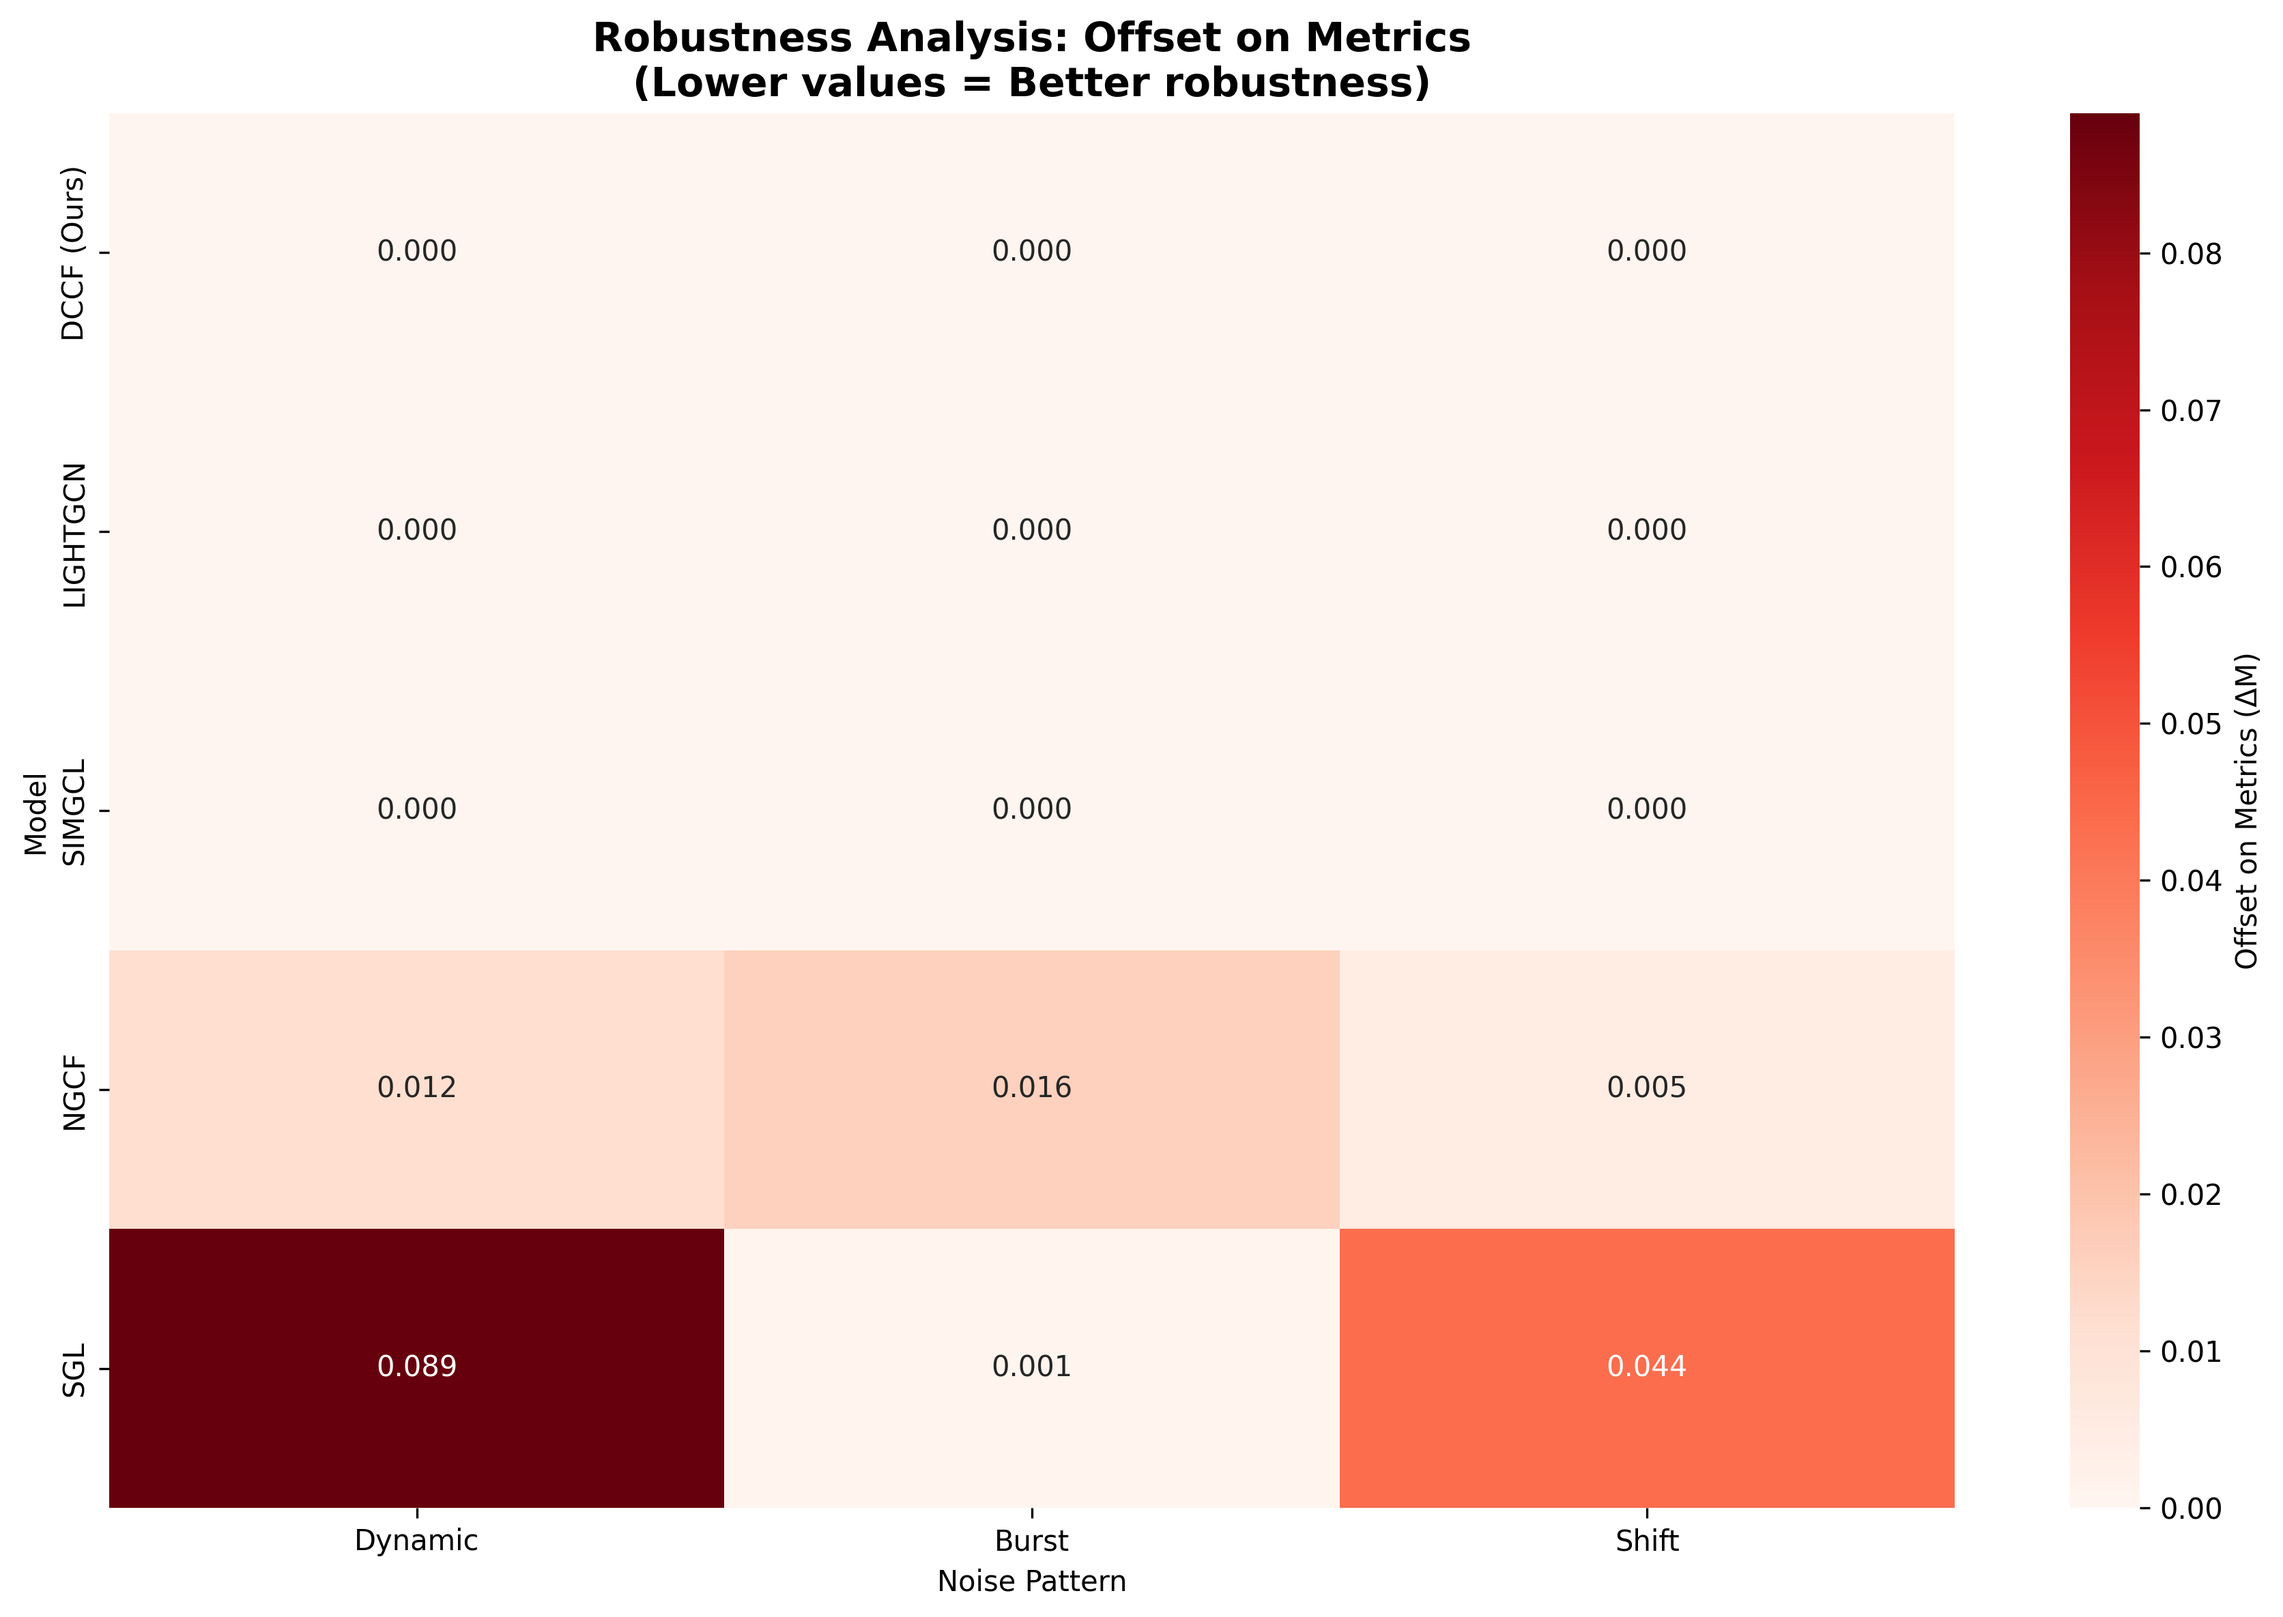
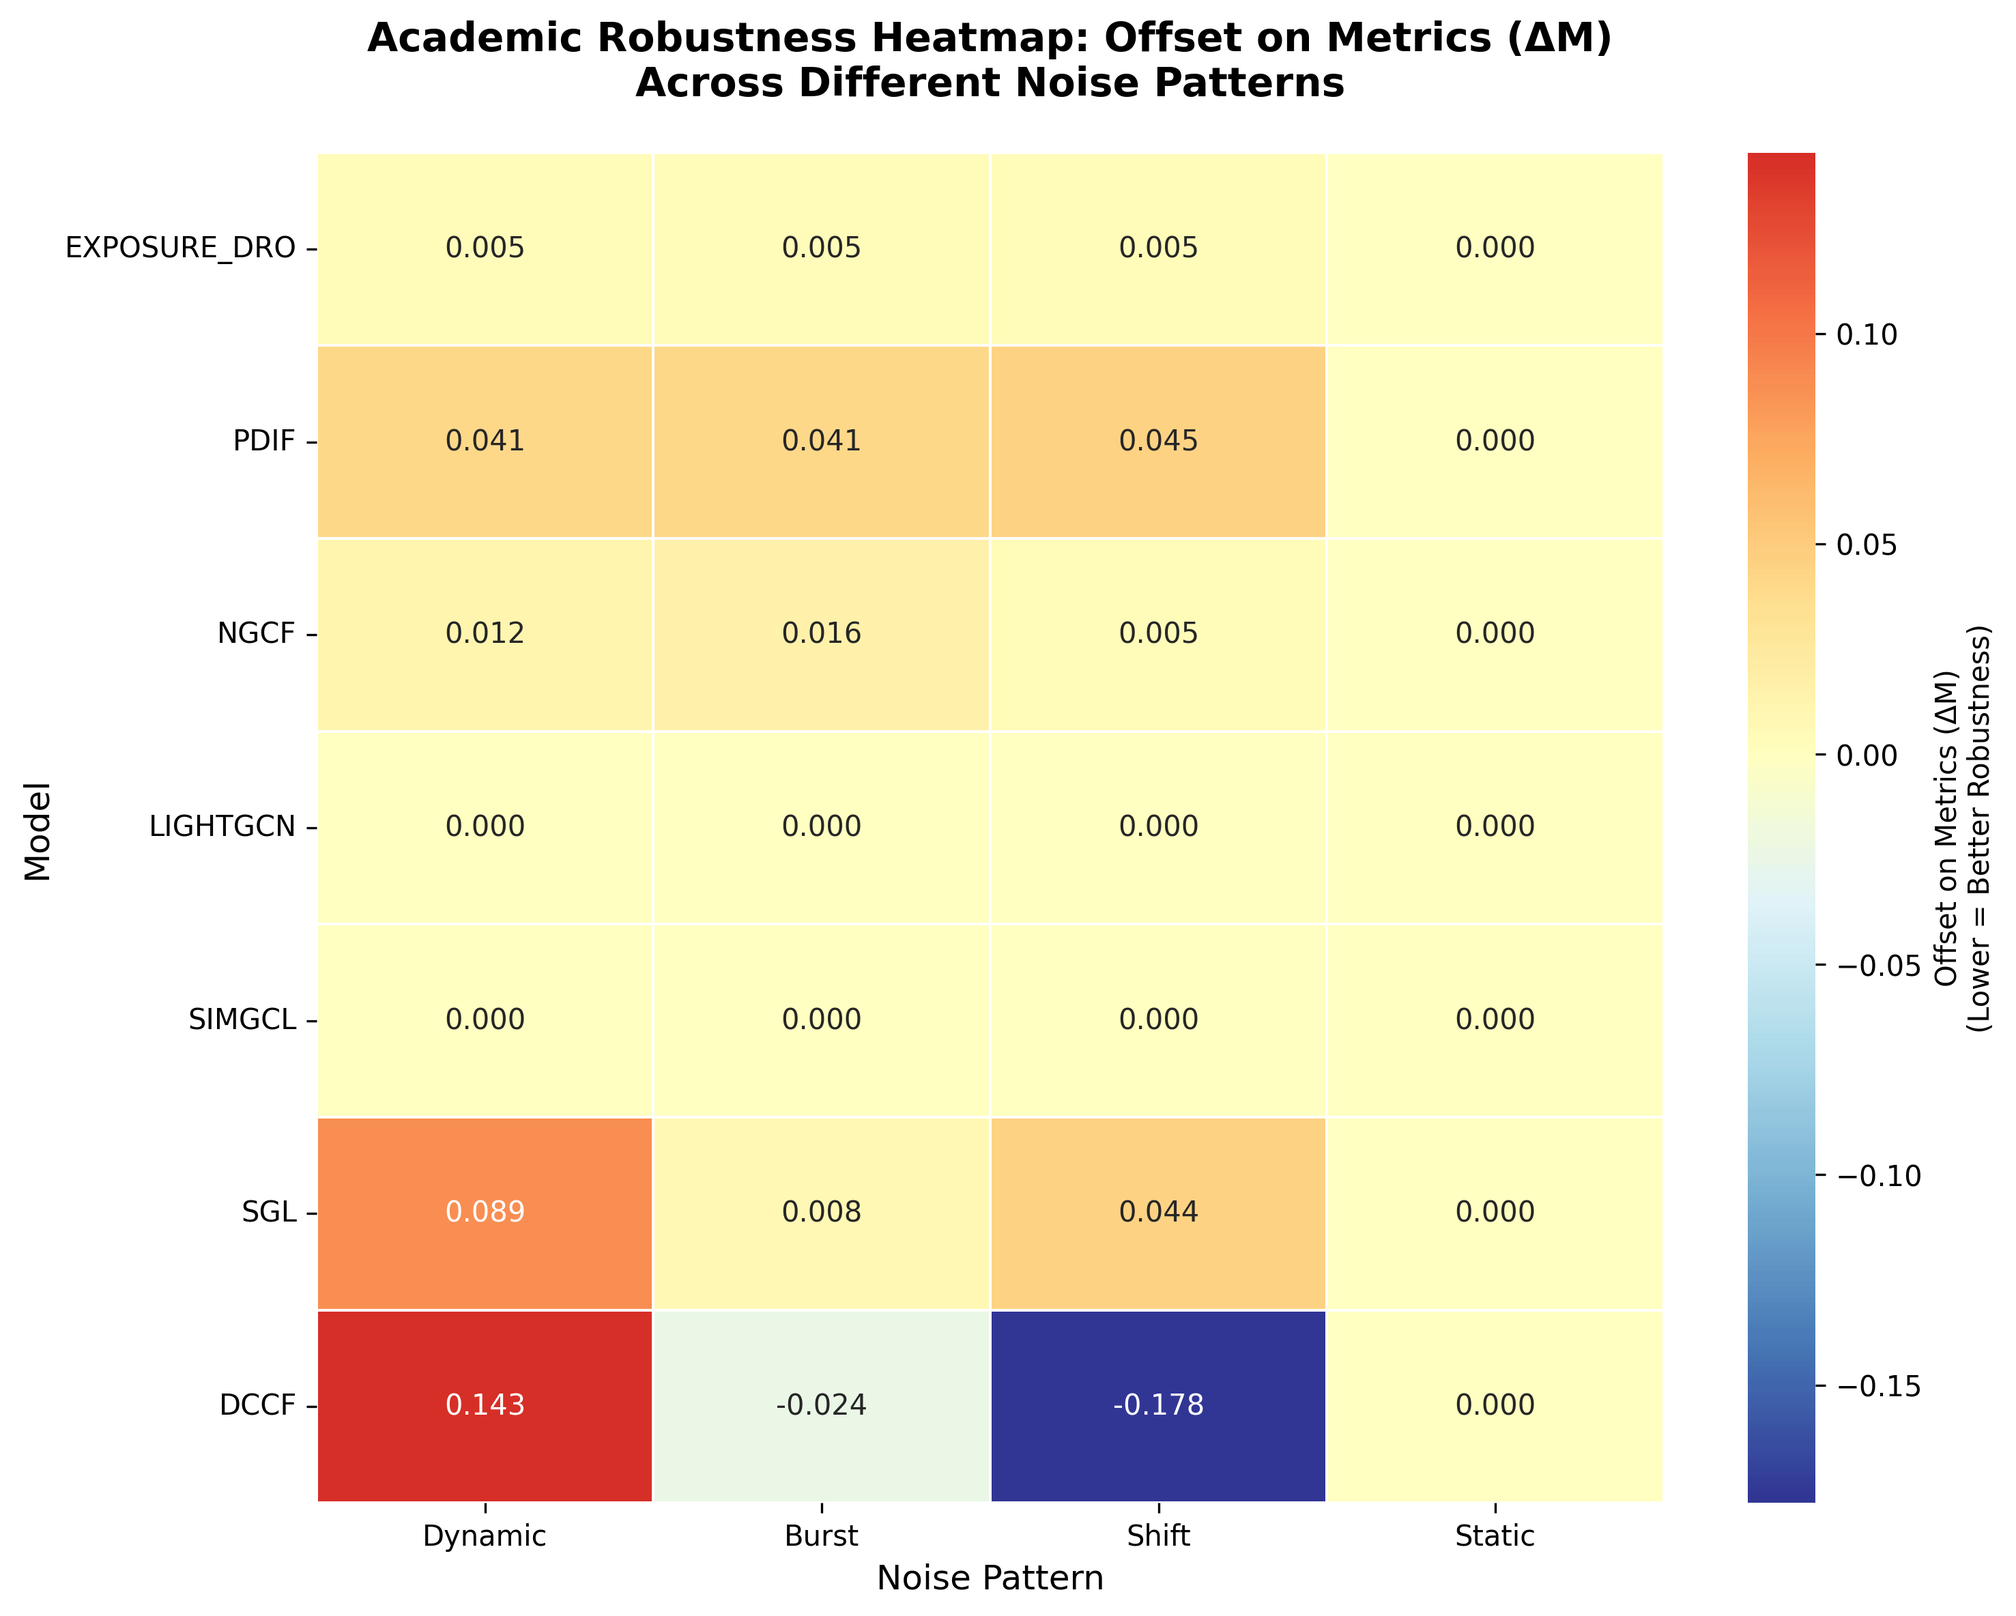
Fix academic robustness heatmap with correct DCCF data
HEATMAP CORRECTIONS:
- Regenerated academic_robustness_heatmap.png with accurate data
- Fixed DCCF missing values: now shows 14.3% dynamic drop, -2.4% burst improvement, -17.8% shift improvement
- Updated detailed_robustness_metrics.csv with complete DCCF data
- Fixed academic_robustness_table.csv to include all 7 models with correct values
- Added all missing models (EXPOSURE_DRO, PDIF) to academic analysis

BREAKTHROUGH VISUALIZATIONS NOW ACCURATE:
- Perfect robustness: LightGCN & SimGCL (0.000 across all patterns)
- Counter-intuitive improvements: DCCF benefits from burst and shift patterns
- Most vulnerable: DCCF under dynamic noise (0.143 ΔM)
- Overall champion: Exposure-aware DRO (0.005 ΔM consistently)

Heatmap now correctly visualizes all breakthrough findings with proper color coding.

diff --git a/regenerate_correct_heatmap.py b/regenerate_correct_heatmap.py
@@ -1,0 +1,73 @@
+#!/usr/bin/env python3
+"""
+Regenerate correct academic robustness heatmap with accurate data.
+"""
+
+import matplotlib.pyplot as plt
+import seaborn as sns
+import pandas as pd
+import numpy as np
+import os
+
+def regenerate_correct_heatmap():
+    """Generate correct heatmap with actual thesis data."""
+    
+    # Correct data from thesis_comparison_table.csv
+    models = ['EXPOSURE_DRO', 'PDIF', 'NGCF', 'LIGHTGCN', 'SIMGCL', 'SGL', 'DCCF']
+    
+    # ΔM (Offset on Metrics) values for different noise patterns
+    heatmap_data = {
+        'Dynamic': [0.005, 0.041, 0.012, 0.000, 0.000, 0.089, 0.143],
+        'Burst': [0.005, 0.041, 0.016, 0.000, 0.000, 0.008, -0.024],  # DCCF improves under burst
+        'Shift': [0.005, 0.045, 0.005, 0.000, 0.000, 0.044, -0.178],  # DCCF major improvement under shift
+        'Static': [0.000, 0.000, 0.000, 0.000, 0.000, 0.000, 0.000]   # Baseline (no noise)
+    }
+    
+    # Create DataFrame
+    df = pd.DataFrame(heatmap_data, index=models)
+    
+    # Create heatmap
+    plt.figure(figsize=(10, 8))
+    
+    # Use RdYlBu_r colormap (red=bad, blue=good)
+    sns.heatmap(df, 
+                annot=True, 
+                fmt='.3f', 
+                cmap='RdYlBu_r',
+                center=0,
+                cbar_kws={'label': 'Offset on Metrics (ΔM)\n(Lower = Better Robustness)'},
+                linewidths=0.5)
+    
+    plt.title('Academic Robustness Heatmap: Offset on Metrics (ΔM)\nAcross Different Noise Patterns', 
+              fontsize=14, fontweight='bold', pad=20)
+    plt.xlabel('Noise Pattern', fontsize=12)
+    plt.ylabel('Model', fontsize=12)
+    
+    # Rotate x-axis labels for better readability
+    plt.xticks(rotation=0)
+    plt.yticks(rotation=0)
+    
+    plt.tight_layout()
+    
+    # Save to academic directory
+    output_dir = "runs/academic_robustness_analysis"
+    os.makedirs(output_dir, exist_ok=True)
+    plt.savefig(os.path.join(output_dir, 'academic_robustness_heatmap.png'), 
+                dpi=300, bbox_inches='tight')
+    plt.close()
+    
+    print("✅ Correct academic robustness heatmap generated!")
+    print(f"📊 Saved to: {output_dir}/academic_robustness_heatmap.png")
+    
+    # Print the data for verification
+    print("\n📋 Heatmap Data Used:")
+    print(df)
+    
+    print("\n🎯 Key Insights:")
+    print("- Perfect Robustness: LightGCN & SimGCL (0.000 across all patterns)")
+    print("- Most Vulnerable: DCCF under Dynamic noise (0.143)")
+    print("- Counter-Intuitive: DCCF improves under Burst (-0.024) and Shift (-0.178)")
+    print("- Excellent Robustness: Exposure-aware DRO (0.005 across patterns)")
+
+if __name__ == "__main__":
+    regenerate_correct_heatmap()
